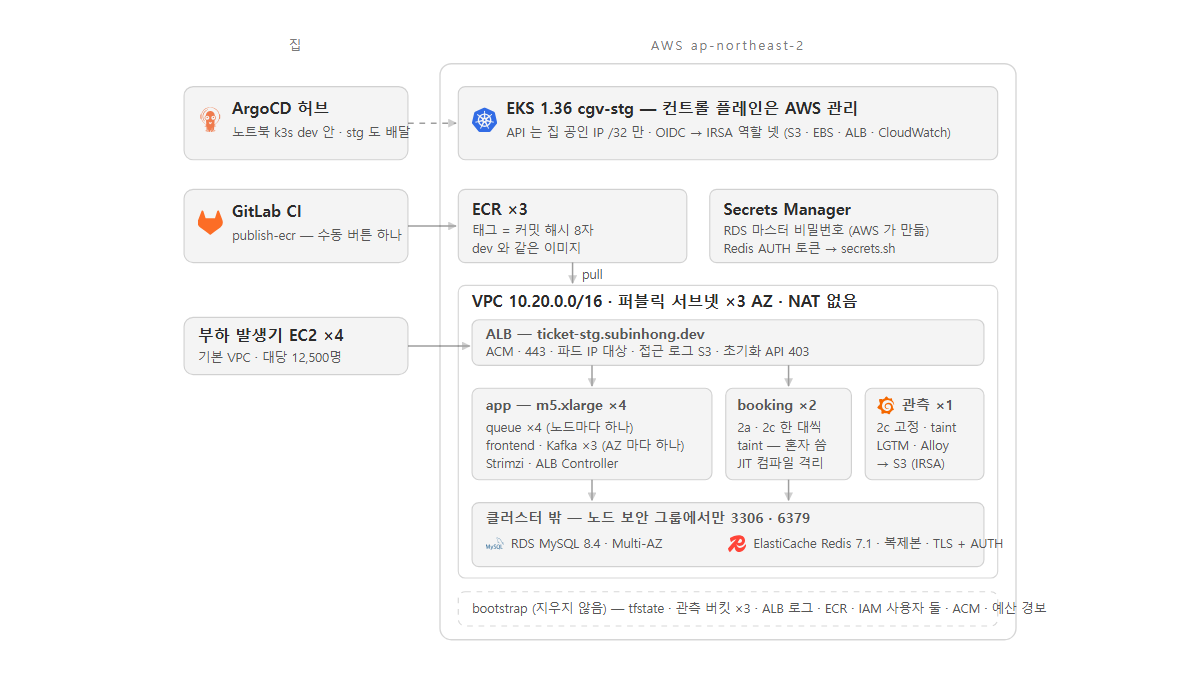
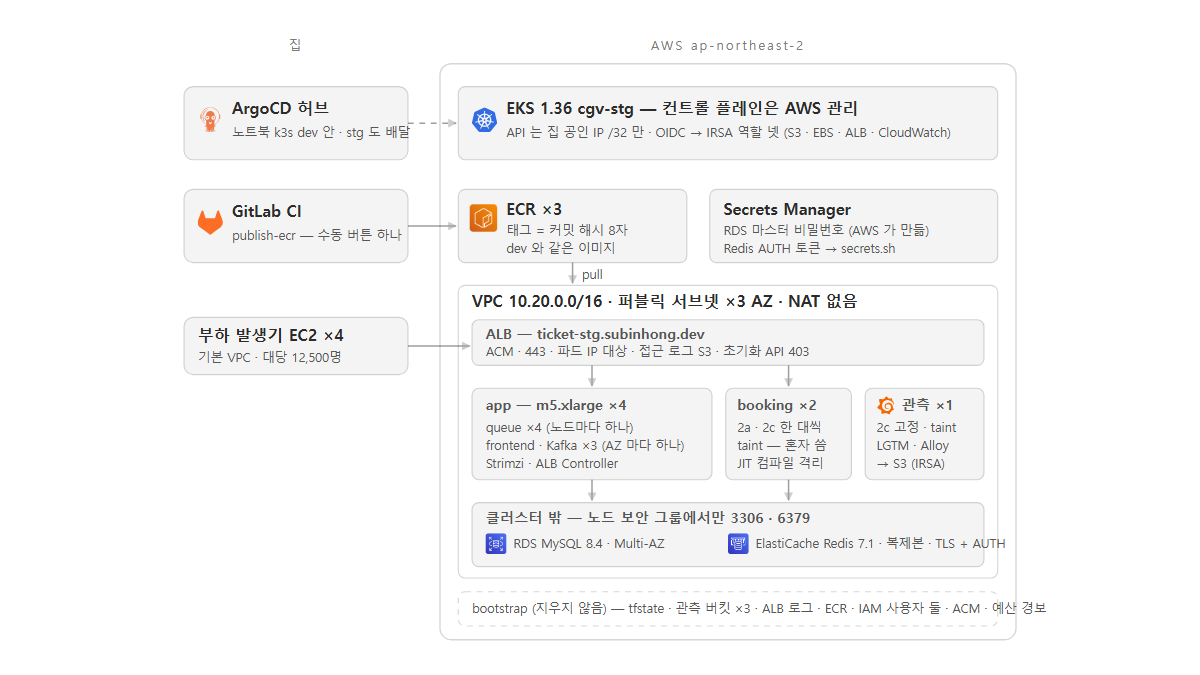
클라우드 그림의 RDS · ElastiCache · ECR 을 AWS 공식 아이콘으로 — 입구 · 클라우드 · CI/CD 세 그림과 썸네일

Changed region(s): [[0.37, 0.28, 0.5242, 0.3733], [0.5858, 0.7778, 0.8325, 0.84], [0.4008, 0.7778, 0.555, 0.84]]

diff --git a/homelab.md b/homelab.md
@@ -106,8 +106,9 @@ permalink: /homelab/
   <!-- AWS: ECR -->
   <g class="hla-g hla-g1">
     <rect x="500" y="44" width="240" height="60" rx="9" class="hla-box"/>
-    <text x="516" y="66" class="hla-t">ECR ×3</text>
-    <text x="516" y="86" class="hla-s">태그 = 커밋 해시 · dev 와 같은 이미지</text>
+    <image href="/assets/img/icons/aws-ecr.png" x="510" y="60" width="26" height="26"/>
+    <text x="544" y="66" class="hla-t">ECR ×3</text>
+    <text x="544" y="86" class="hla-s">태그 = 커밋 해시 · 같은 이미지</text>
     <line x1="620" y1="104" x2="620" y2="124" class="hla-ln" marker-end="url(#hla-arrow)"/>
     <text x="630" y="118" class="hla-s2">pull</text>
   </g>
@@ -145,10 +146,10 @@ permalink: /homelab/
   <g class="hla-g hla-g3">
     <rect x="500" y="364" width="240" height="66" rx="9" class="hla-box"/>
     <text x="516" y="382" class="hla-c">클러스터 밖 — 관리형</text>
-    <image href="/assets/img/icons/mysql.svg" x="516" y="392" width="16" height="16"/>
-    <text x="538" y="404" class="hla-s2">RDS MySQL 8.4 · Multi-AZ</text>
-    <image href="/assets/img/icons/redis.svg" x="516" y="410" width="16" height="16"/>
-    <text x="538" y="422" class="hla-s2">ElastiCache Redis 7.1 · 복제본 · TLS + AUTH</text>
+    <image href="/assets/img/icons/aws-rds.png" x="516" y="391" width="17" height="17"/>
+    <text x="539" y="404" class="hla-s2">RDS MySQL 8.4 · Multi-AZ</text>
+    <image href="/assets/img/icons/aws-elasticache.png" x="516" y="409" width="17" height="17"/>
+    <text x="539" y="422" class="hla-s2">ElastiCache Redis 7.1 · 복제본 · TLS + AUTH</text>
   </g>
 
   <!-- 흐르는 점 넷 — 12초 한 바퀴 -->

diff --git a/homelab/cicd.md b/homelab/cicd.md
@@ -89,8 +89,9 @@ dev는 머지하면 자동으로, stg는 버튼 하나를 누르면 **같은 이
   <text class="hla-s" x="536" y="86">ap-northeast-2</text>
 
   <rect class="hla-box" x="536" y="222" width="196" height="56" rx="6"/>
-  <text class="hla-t" x="548" y="244">ECR ×3</text>
-  <text class="hla-s2" x="548" y="266">3b6bd07c — 같은 이미지</text>
+  <image href="/assets/img/icons/aws-ecr.png" x="546" y="238" width="24" height="24"/>
+  <text class="hla-t" x="578" y="244">ECR ×3</text>
+  <text class="hla-s2" x="578" y="266">3b6bd07c — 같은 이미지</text>
 
   <line class="hla-ln-img" x1="634" y1="278" x2="634" y2="314" marker-end="url(#hlm-i)"/>
   <text class="hla-a" x="642" y="300">pull · 노드 역할</text>
